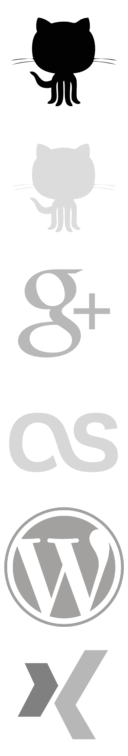
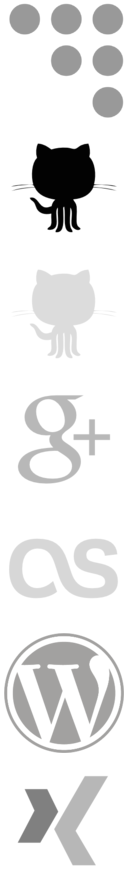
add coderwall

diff --git a/css/style.css b/css/style.css
@@ -178,32 +178,37 @@ a:hover {
 
 .image-github-alt { 
         background-image: url("../img/grid.png");
-        background-position: 0px 0px;
+        background-position: 0px 190px;
+}
+
+.image-coderwall { 
+        background-image: url("../img/grid.png");
+        background-position: 0px 0px; 
 }
 
 .image-github { 
         background-image: url("../img/grid.png");
-        background-position: 0px -32px; 
+        background-position: 0px 158px; 
 }
 
 .image-lastfm {  
         background-image: url("../img/grid.png");
-        background-position: 0px -94px;
+        background-position: 0px 94px;
 }
 
 .image-xing {  
         background-image: url("../img/grid.png");
-        background-position: 0px -158px ;
+        background-position: 0px 32px ;
 }
 
 .image-gplus { 
         background-image: url("../img/grid.png");
-        background-position: 0px -66px;
+        background-position: 0px 128px;
 }
 
 .image-wordpress { 
         background-image: url("../img/grid.png");
-        background-position: 0px -126px;
+        background-position: 0px 63px;
 }
 
 
